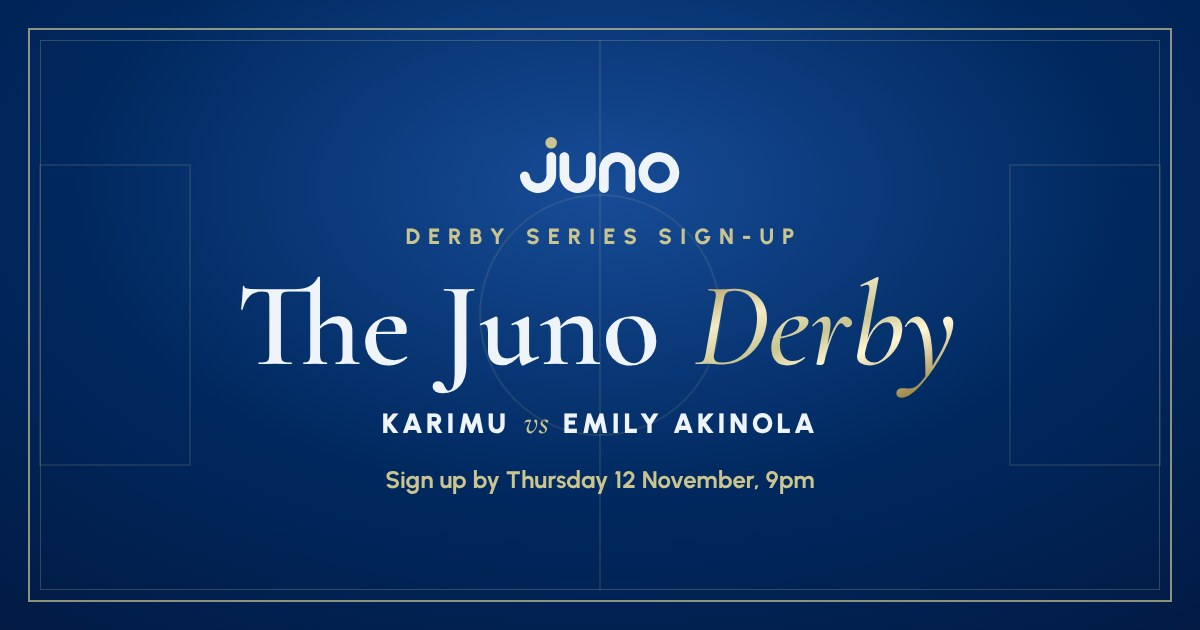
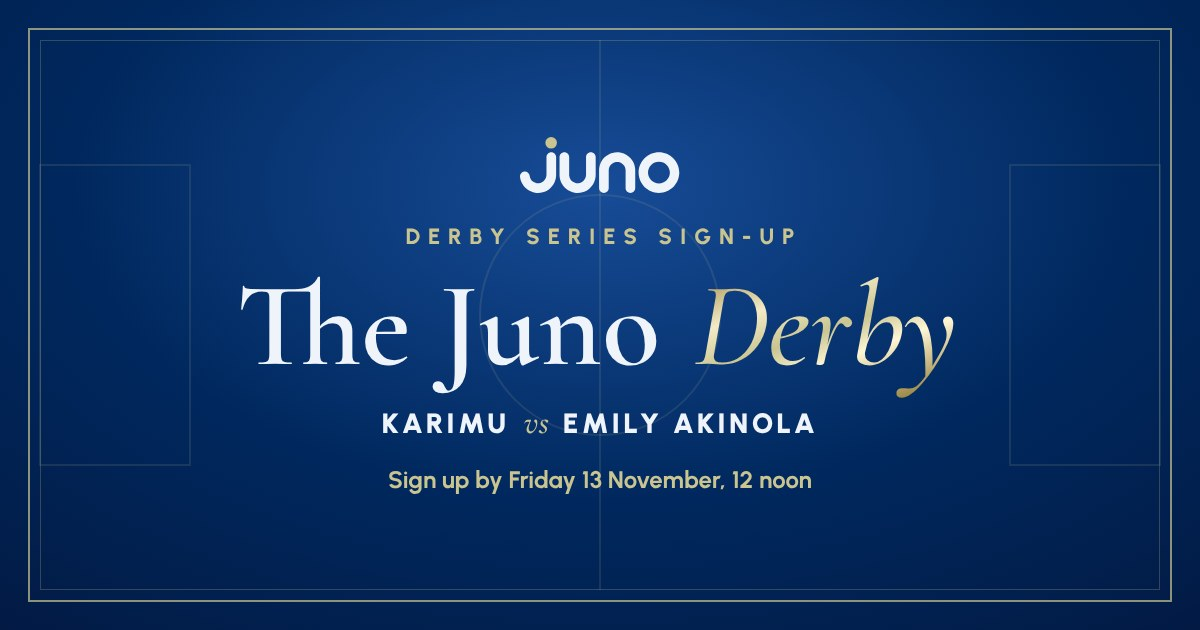
Derby sign-ups now close Fri 13 Nov at 12 noon, with the house name vote
Claude-Session: https://claude.ai/code/session_01XdH3ECsCFRj6sJaFGNUV7W

Changed region(s): [[0.3083, 0.7238, 0.6783, 0.7841]]

diff --git a/derby/plan/index.html b/derby/plan/index.html
@@ -164,7 +164,7 @@ footer{margin-top:64px;padding-block:22px 48px;border-top:1px solid var(--line);
     <div class="vs"><span>Karimu</span><b>vs</b><span>Emily Akinola</span></div>
     <p class="lead">Twelve days from sign-ups to Derby Day. Every final in the build-up adds points to a building's tally, and the tally is settled on the pitch on Saturday 21 November. The building with the most points lifts the Juno Derby Cup.</p>
     <dl class="facts">
-      <div><dt>Sign-ups close · name vote closes</dt><dd>Thu 12 Nov, 9pm · Fri 13 Nov, noon</dd></div>
+      <div><dt>Sign-ups and name vote close</dt><dd>Friday 13 November, 12 noon</dd></div>
       <div><dt>Build-up</dt><dd>Saturday 14 to Friday 20 November</dd></div>
       <div><dt>Derby Day</dt><dd>Saturday 21 November, 4 to 5 hours on the pitch</dd></div>
     </dl>
@@ -199,10 +199,9 @@ footer{margin-top:64px;padding-block:22px 48px;border-top:1px solid var(--line);
         <div class="ev"><span class="t">All week</span><span class="w">Sign-ups at life.juno.africa/derby</span><span class="tag b">Both</span></div>
         <div class="ev"><span class="t">All week</span><span class="w">House-name vote at life.juno.africa/names, private until Friday</span><span class="tag b">Both</span><span class="pts">+1 turnout</span></div>
         <div class="ev"><span class="t">Wed 8pm</span><span class="w">Pre-Derby Connect: meet the games masters</span><span class="tag k">Karimu</span></div>
-        <div class="ev"><span class="t">Thu 9pm</span><span class="w">Derby sign-ups close</span></div>
       </div></div>
       <div class="day"><div class="date"><span>Fri</span><b>13</b><small>November</small></div><div class="evs">
-        <div class="ev"><span class="t">12 noon</span><span class="w">House name vote closes</span></div>
+        <div class="ev"><span class="t">12 noon</span><span class="w">Derby sign-ups and the house name vote close</span></div>
         <div class="ev"><span class="t">Afternoon</span><span class="w">House names announced in both groups</span><span class="tag b">Both</span></div>
         <div class="ev"><span class="t">Day</span><span class="w">Jersey order placed with names and sizes; brackets drawn and posted</span></div>
         <div class="ev"><span class="t">8:00pm</span><span class="w">Pre-Derby Connect: meet the games masters</span><span class="tag e">Emily Akinola</span></div>

diff --git a/derby/index.html b/derby/index.html
@@ -7,7 +7,7 @@
 <meta name="theme-color" content="#00285E">
 <meta property="og:type" content="website">
 <meta property="og:title" content="Sign up for the Juno Derby">
-<meta property="og:description" content="Karimu against Emily Akinola. Pick your games by Thursday 12 November, 9pm.">
+<meta property="og:description" content="Karimu against Emily Akinola. Pick your games by Friday 13 November, 12 noon.">
 <meta property="og:url" content="https://life.juno.africa/derby/">
 <meta property="og:image" content="https://life.juno.africa/derby/og.jpg">
 <meta property="og:image:width" content="1200">
@@ -134,7 +134,7 @@ button[aria-pressed="true"]{background:var(--pick)!important;border-color:var(--
   </section>
 
   <dl class="event">
-    <dt>Sign up by</dt><dd>Thursday 12 November, 9pm</dd>
+    <dt>Sign up by</dt><dd>Friday 13 November, 12 noon</dd>
     <dt>Training</dt><dd>Saturday 14 and Sunday 15 November, 7am. Anyone can join.</dd>
     <dt>Derby Day</dt><dd>Saturday 21 November. The football match, side games and the Juno Derby Cup.</dd>
   </dl>
@@ -216,7 +216,7 @@ button[aria-pressed="true"]{background:var(--pick)!important;border-color:var(--
 // under the event id below; the games, football position and jersey size are in the notes column.
 const SIGNUP_URL = "https://script.google.com/macros/s/AKfycby7glLFdEq_B2WLJWjOk16iwSFwnNaf26Ho0BNxGuScizv9xANwqeOFW7qJd2aw7nDp/exec";
 const EVENT = { id: "2026-11-21-derby-sign-up", title: "Derby Series sign-up" };
-const CLOSES = Date.parse("2026-11-12T21:00:00+01:00");
+const CLOSES = Date.parse("2026-11-13T12:00:00+01:00");
 (function () {
   "use strict";
   const $ = (id) => document.getElementById(id);

diff --git a/feedback/index.html b/feedback/index.html
@@ -192,7 +192,7 @@ textarea:focus{outline:none;border-color:var(--gold);box-shadow:0 0 0 4px rgba(2
     <div class="tick-badge" aria-hidden="true"><svg width="34" height="34" viewBox="0 0 24 24" fill="none" stroke="#050F26" stroke-width="3" stroke-linecap="round" stroke-linejoin="round"><path d="M5 12.5l4.5 4.5L19 7.5"/></svg></div>
     <h2>Thank you for your feedback.</h2>
     <p>The Juno team reads every answer, and it shapes what we plan next.</p>
-    <div class="box"><p class="t">Up next: the Juno Derby</p><p>Vote for your house name at <a href="../names/">life.juno.africa/names</a> by Friday 13 November, 12 noon, and sign up at <a href="../derby/">life.juno.africa/derby</a> by Thursday 12 November, 9pm. Derby Day is Saturday 21 November.</p></div>
+    <div class="box"><p class="t">Up next: the Juno Derby</p><p>Vote for your house name at <a href="../names/">life.juno.africa/names</a> and sign up at <a href="../derby/">life.juno.africa/derby</a> by Friday 13 November, 12 noon. Derby Day is Saturday 21 November.</p></div>
   </section>
 
   <footer class="foot">

diff --git a/names/index.html b/names/index.html
@@ -179,7 +179,7 @@ button[aria-pressed="true"]{background:var(--pick)!important;border-color:var(--
     <div class="tick-badge" aria-hidden="true"><svg width="34" height="34" viewBox="0 0 24 24" fill="none" stroke="#050F26" stroke-width="3" stroke-linecap="round" stroke-linejoin="round"><path d="M5 12.5l4.5 4.5L19 7.5"/></svg></div>
     <h2 id="doneTitle"></h2>
     <p id="doneText"></p>
-    <div class="box"><p class="t">Playing in the Derby?</p><p>Sign up at <a href="../derby/">life.juno.africa/derby</a> by Thursday 12 November, 9pm, so your jersey comes in your size.</p></div>
+    <div class="box"><p class="t">Playing in the Derby?</p><p>Sign up at <a href="../derby/">life.juno.africa/derby</a> by Friday 13 November, 12 noon, so your jersey comes in your size.</p></div>
     <button type="button" class="link" id="change">Change my vote</button>
   </section>
 
